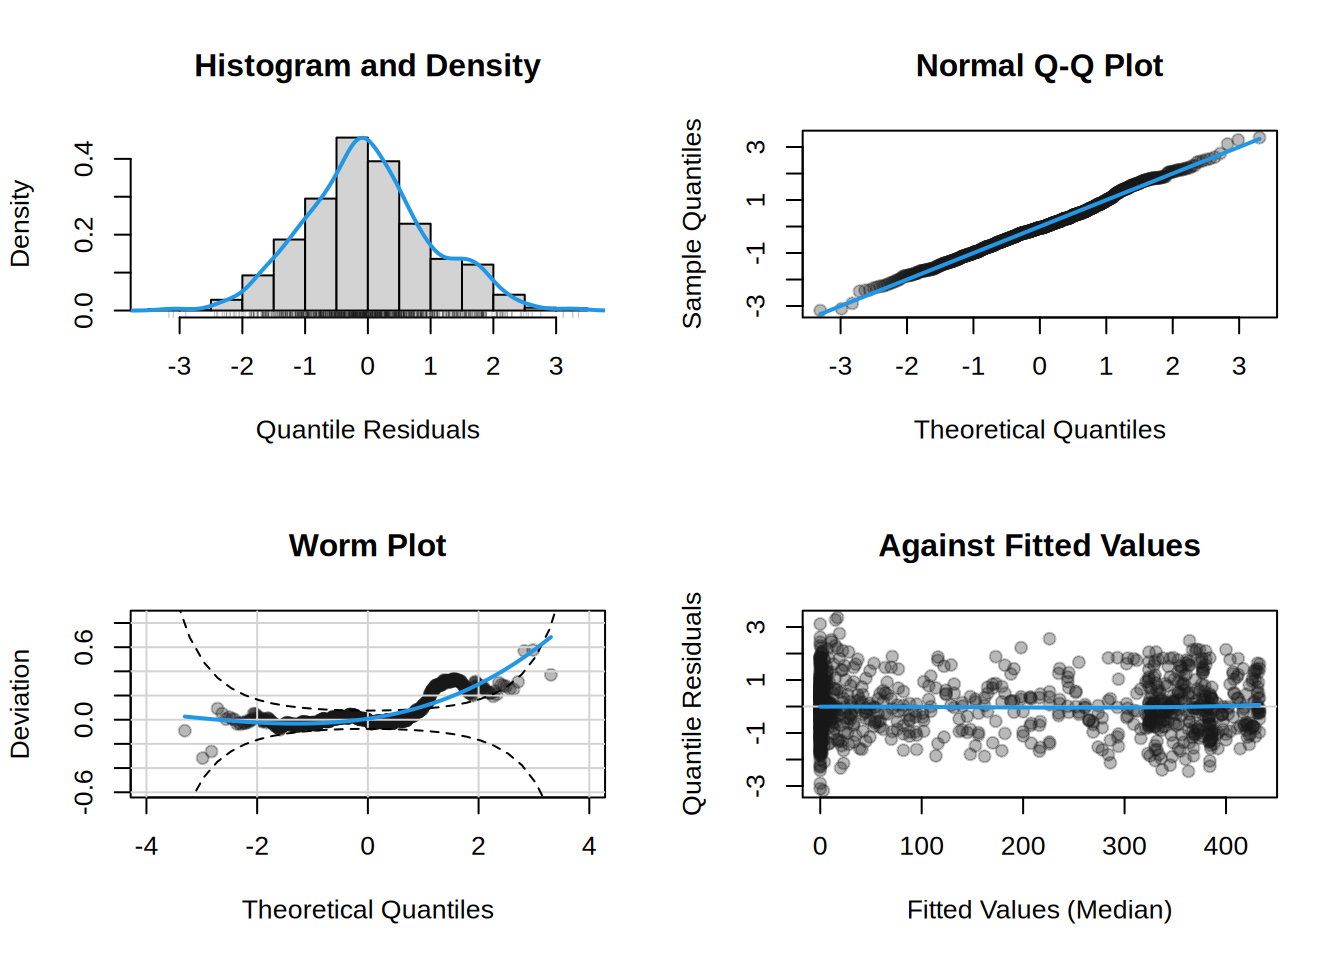
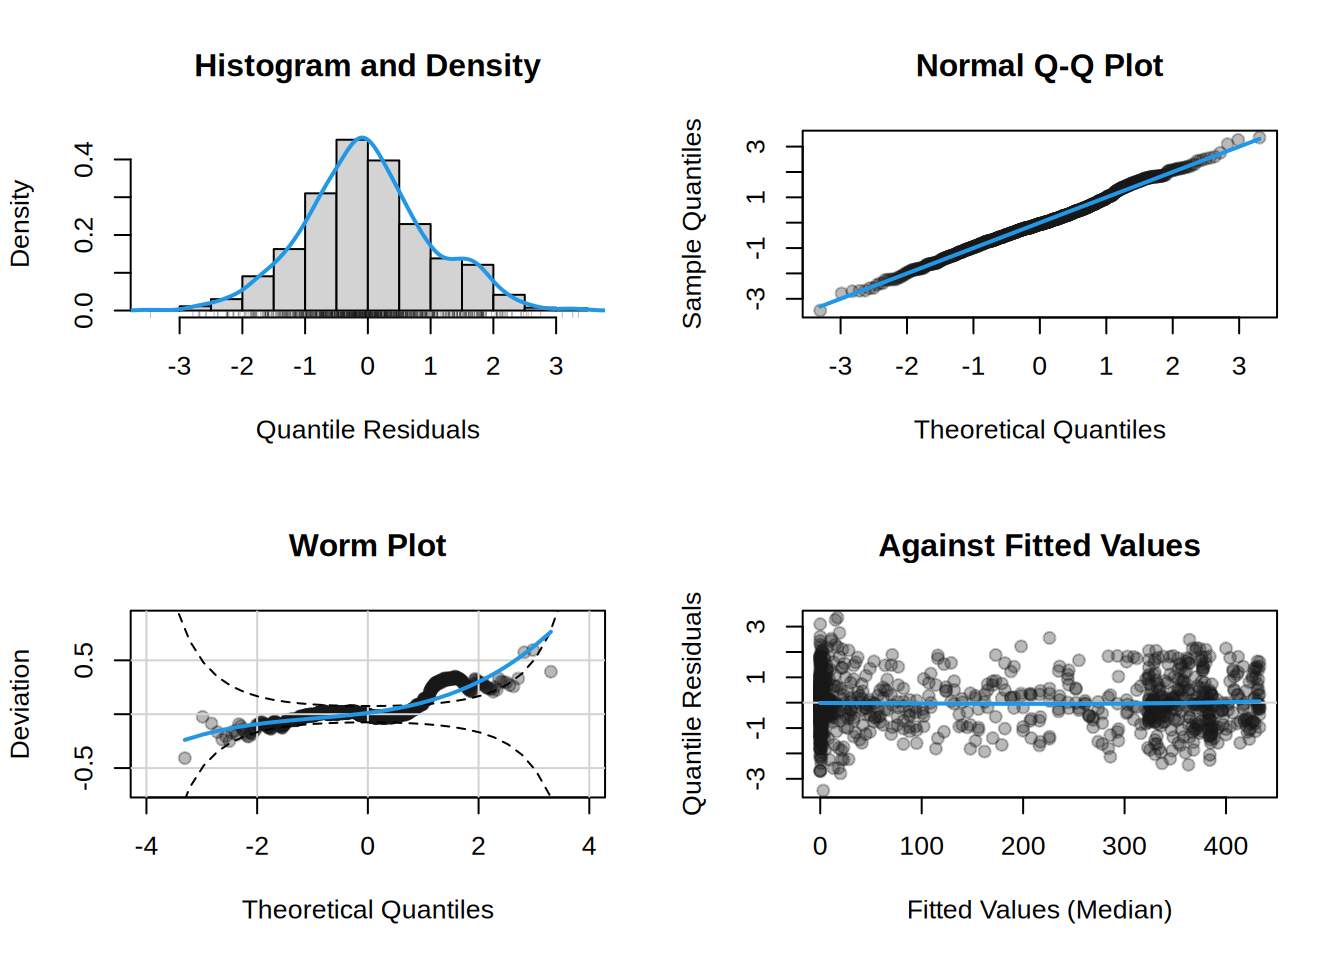
Deploying to gh-pages from @ gamlss-dev/gamlss2@c25680d0386dfb060930328f96b3dcdfa9459b5f 🚀

diff --git a/man/la.html b/man/la.html
@@ -672,110 +672,108 @@ For function <code>la()</code> further control arguments can be passed: The <cod
 <div class="cell">
 <div class="code-copy-outer-scaffold"><div class="sourceCode cell-code" id="cb1"><pre class="sourceCode r code-with-copy"><code class="sourceCode r"><span id="cb1-1"><a href="#cb1-1" aria-hidden="true" tabindex="-1"></a><span class="fu">library</span>(<span class="st">"gamlss2"</span>)</span>
 <span id="cb1-2"><a href="#cb1-2" aria-hidden="true" tabindex="-1"></a></span>
-<span id="cb1-3"><a href="#cb1-3" aria-hidden="true" tabindex="-1"></a></span>
-<span id="cb1-4"><a href="#cb1-4" aria-hidden="true" tabindex="-1"></a><span class="fu">data</span>(<span class="st">"rent"</span>, <span class="at">package =</span> <span class="st">"gamlss.data"</span>)</span>
-<span id="cb1-5"><a href="#cb1-5" aria-hidden="true" tabindex="-1"></a></span>
-<span id="cb1-6"><a href="#cb1-6" aria-hidden="true" tabindex="-1"></a><span class="do">## transform numeric to factor variables</span></span>
-<span id="cb1-7"><a href="#cb1-7" aria-hidden="true" tabindex="-1"></a>rent<span class="sc">$</span>Flc <span class="ot">&lt;-</span> <span class="fu">cut</span>(rent<span class="sc">$</span>Fl, <span class="at">breaks =</span> <span class="fu">seq</span>(<span class="dv">20</span>, <span class="dv">160</span>, <span class="at">by =</span> <span class="dv">10</span>),</span>
+<span id="cb1-3"><a href="#cb1-3" aria-hidden="true" tabindex="-1"></a>air <span class="ot">&lt;-</span> <span class="fu">subset</span>(airquality, <span class="sc">!</span><span class="fu">is.na</span>(Ozone))</span>
+<span id="cb1-4"><a href="#cb1-4" aria-hidden="true" tabindex="-1"></a></span>
+<span id="cb1-5"><a href="#cb1-5" aria-hidden="true" tabindex="-1"></a>air<span class="sc">$</span>Tc <span class="ot">&lt;-</span> <span class="fu">cut</span>(air<span class="sc">$</span>Temp, <span class="at">breaks =</span> <span class="fu">seq</span>(<span class="dv">50</span>, <span class="dv">100</span>, <span class="at">by =</span> <span class="dv">10</span>),</span>
+<span id="cb1-6"><a href="#cb1-6" aria-hidden="true" tabindex="-1"></a>  <span class="at">include.lowest =</span> <span class="cn">TRUE</span>)</span>
+<span id="cb1-7"><a href="#cb1-7" aria-hidden="true" tabindex="-1"></a>air<span class="sc">$</span>Wc <span class="ot">&lt;-</span> <span class="fu">cut</span>(air<span class="sc">$</span>Wind, <span class="at">breaks =</span> <span class="fu">seq</span>(<span class="dv">2</span>, <span class="dv">22</span>, <span class="at">by =</span> <span class="dv">4</span>),</span>
 <span id="cb1-8"><a href="#cb1-8" aria-hidden="true" tabindex="-1"></a>  <span class="at">include.lowest =</span> <span class="cn">TRUE</span>)</span>
-<span id="cb1-9"><a href="#cb1-9" aria-hidden="true" tabindex="-1"></a>rent<span class="sc">$</span>Ac <span class="ot">&lt;-</span> <span class="fu">cut</span>(rent<span class="sc">$</span>A, <span class="at">breaks =</span> <span class="fu">seq</span>(<span class="dv">1890</span>, <span class="dv">1990</span>, <span class="at">by =</span> <span class="dv">10</span>),</span>
-<span id="cb1-10"><a href="#cb1-10" aria-hidden="true" tabindex="-1"></a>  <span class="at">include.lowest =</span> <span class="cn">TRUE</span>)</span>
-<span id="cb1-11"><a href="#cb1-11" aria-hidden="true" tabindex="-1"></a></span>
-<span id="cb1-12"><a href="#cb1-12" aria-hidden="true" tabindex="-1"></a><span class="do">## set up the model formula for a BCT model</span></span>
-<span id="cb1-13"><a href="#cb1-13" aria-hidden="true" tabindex="-1"></a>f <span class="ot">&lt;-</span> R <span class="sc">~</span> <span class="fu">la</span>(Flc,<span class="at">type=</span><span class="dv">3</span>) <span class="sc">+</span> <span class="fu">la</span>(Ac,<span class="at">type=</span><span class="dv">3</span>) <span class="sc">+</span> <span class="fu">la</span>(loc,<span class="at">type=</span><span class="dv">4</span>) <span class="sc">|</span> . <span class="sc">|</span> .</span>
-<span id="cb1-14"><a href="#cb1-14" aria-hidden="true" tabindex="-1"></a></span>
-<span id="cb1-15"><a href="#cb1-15" aria-hidden="true" tabindex="-1"></a><span class="do">## estimation</span></span>
-<span id="cb1-16"><a href="#cb1-16" aria-hidden="true" tabindex="-1"></a>m1 <span class="ot">&lt;-</span> <span class="fu">gamlss2</span>(f, <span class="at">data =</span> rent, <span class="at">family =</span> BCT)</span>
-<span id="cb1-17"><a href="#cb1-17" aria-hidden="true" tabindex="-1"></a></span>
-<span id="cb1-18"><a href="#cb1-18" aria-hidden="true" tabindex="-1"></a><span class="do">## summary, shows the estimated degrees of freedom</span></span>
-<span id="cb1-19"><a href="#cb1-19" aria-hidden="true" tabindex="-1"></a><span class="do">## for each model term</span></span>
-<span id="cb1-20"><a href="#cb1-20" aria-hidden="true" tabindex="-1"></a><span class="fu">summary</span>(m1)</span>
-<span id="cb1-21"><a href="#cb1-21" aria-hidden="true" tabindex="-1"></a></span>
-<span id="cb1-22"><a href="#cb1-22" aria-hidden="true" tabindex="-1"></a><span class="do">## plot estimated coefficients</span></span>
-<span id="cb1-23"><a href="#cb1-23" aria-hidden="true" tabindex="-1"></a><span class="fu">plot</span>(m1)</span>
-<span id="cb1-24"><a href="#cb1-24" aria-hidden="true" tabindex="-1"></a></span>
-<span id="cb1-25"><a href="#cb1-25" aria-hidden="true" tabindex="-1"></a><span class="do">## plot information criteria curves</span></span>
-<span id="cb1-26"><a href="#cb1-26" aria-hidden="true" tabindex="-1"></a><span class="do">## for each model term</span></span>
-<span id="cb1-27"><a href="#cb1-27" aria-hidden="true" tabindex="-1"></a><span class="fu">plot_lasso</span>(m1)</span>
-<span id="cb1-28"><a href="#cb1-28" aria-hidden="true" tabindex="-1"></a></span>
-<span id="cb1-29"><a href="#cb1-29" aria-hidden="true" tabindex="-1"></a><span class="do">## plot parameter paths</span></span>
-<span id="cb1-30"><a href="#cb1-30" aria-hidden="true" tabindex="-1"></a><span class="fu">plot_lasso</span>(m1, <span class="at">which =</span> <span class="st">"coefficients"</span>)</span>
-<span id="cb1-31"><a href="#cb1-31" aria-hidden="true" tabindex="-1"></a></span>
-<span id="cb1-32"><a href="#cb1-32" aria-hidden="true" tabindex="-1"></a><span class="do">## plot a single model term</span></span>
-<span id="cb1-33"><a href="#cb1-33" aria-hidden="true" tabindex="-1"></a><span class="fu">plot_lasso</span>(m1, <span class="at">which =</span> <span class="st">"coefficients"</span>, <span class="at">term =</span> <span class="dv">5</span>)</span>
-<span id="cb1-34"><a href="#cb1-34" aria-hidden="true" tabindex="-1"></a></span>
-<span id="cb1-35"><a href="#cb1-35" aria-hidden="true" tabindex="-1"></a><span class="do">## same with</span></span>
-<span id="cb1-36"><a href="#cb1-36" aria-hidden="true" tabindex="-1"></a><span class="fu">plot_lasso</span>(m1, <span class="at">which =</span> <span class="st">"coefficients"</span>, <span class="at">term =</span> <span class="st">"sigma.la(Ac"</span>)</span>
-<span id="cb1-37"><a href="#cb1-37" aria-hidden="true" tabindex="-1"></a></span>
-<span id="cb1-38"><a href="#cb1-38" aria-hidden="true" tabindex="-1"></a><span class="do">## zoom out</span></span>
-<span id="cb1-39"><a href="#cb1-39" aria-hidden="true" tabindex="-1"></a><span class="fu">plot_lasso</span>(m1, <span class="at">which =</span> <span class="st">"coefficients"</span>, <span class="at">term =</span> <span class="dv">5</span>,</span>
-<span id="cb1-40"><a href="#cb1-40" aria-hidden="true" tabindex="-1"></a>  <span class="at">zoom =</span> <span class="fu">c</span>(<span class="dv">8</span>, <span class="dv">7</span>))</span>
-<span id="cb1-41"><a href="#cb1-41" aria-hidden="true" tabindex="-1"></a></span>
-<span id="cb1-42"><a href="#cb1-42" aria-hidden="true" tabindex="-1"></a><span class="do">## set names</span></span>
-<span id="cb1-43"><a href="#cb1-43" aria-hidden="true" tabindex="-1"></a><span class="fu">plot_lasso</span>(m1, <span class="at">which =</span> <span class="st">"coefficients"</span>, <span class="at">term =</span> <span class="dv">5</span>,</span>
-<span id="cb1-44"><a href="#cb1-44" aria-hidden="true" tabindex="-1"></a>  <span class="at">zoom =</span> <span class="fu">c</span>(<span class="dv">8</span>, <span class="dv">7</span>), <span class="at">names =</span> <span class="fu">c</span>(<span class="st">"A"</span>, <span class="st">"B"</span>, <span class="st">"C"</span>))</span>
-<span id="cb1-45"><a href="#cb1-45" aria-hidden="true" tabindex="-1"></a></span>
-<span id="cb1-46"><a href="#cb1-46" aria-hidden="true" tabindex="-1"></a><span class="do">## set title</span></span>
-<span id="cb1-47"><a href="#cb1-47" aria-hidden="true" tabindex="-1"></a><span class="fu">plot_lasso</span>(m1, <span class="at">which =</span> <span class="st">"coefficients"</span>, <span class="at">term =</span> <span class="dv">5</span>,</span>
-<span id="cb1-48"><a href="#cb1-48" aria-hidden="true" tabindex="-1"></a>  <span class="at">zoom =</span> <span class="fu">c</span>(<span class="dv">8</span>, <span class="dv">7</span>), <span class="at">main =</span> <span class="st">"Fused Lasso"</span>)</span>
-<span id="cb1-49"><a href="#cb1-49" aria-hidden="true" tabindex="-1"></a></span>
-<span id="cb1-50"><a href="#cb1-50" aria-hidden="true" tabindex="-1"></a><span class="do">## simulated example using the nominal fused lasso</span></span>
-<span id="cb1-51"><a href="#cb1-51" aria-hidden="true" tabindex="-1"></a><span class="do">## and a matrix as argument for la()</span></span>
-<span id="cb1-52"><a href="#cb1-52" aria-hidden="true" tabindex="-1"></a><span class="fu">set.seed</span>(<span class="dv">1328</span>)</span>
-<span id="cb1-53"><a href="#cb1-53" aria-hidden="true" tabindex="-1"></a></span>
-<span id="cb1-54"><a href="#cb1-54" aria-hidden="true" tabindex="-1"></a><span class="do">## number of observations and covariates</span></span>
-<span id="cb1-55"><a href="#cb1-55" aria-hidden="true" tabindex="-1"></a>n <span class="ot">&lt;-</span> <span class="dv">500</span></span>
-<span id="cb1-56"><a href="#cb1-56" aria-hidden="true" tabindex="-1"></a>k <span class="ot">&lt;-</span> <span class="dv">50</span></span>
-<span id="cb1-57"><a href="#cb1-57" aria-hidden="true" tabindex="-1"></a></span>
-<span id="cb1-58"><a href="#cb1-58" aria-hidden="true" tabindex="-1"></a><span class="do">## model matrix</span></span>
-<span id="cb1-59"><a href="#cb1-59" aria-hidden="true" tabindex="-1"></a>X <span class="ot">&lt;-</span> <span class="fu">matrix</span>(<span class="fu">rnorm</span>(n <span class="sc">*</span> k), n, k)</span>
-<span id="cb1-60"><a href="#cb1-60" aria-hidden="true" tabindex="-1"></a><span class="fu">colnames</span>(X) <span class="ot">&lt;-</span> <span class="fu">paste0</span>(<span class="st">"x"</span>, <span class="dv">1</span><span class="sc">:</span>k)</span>
-<span id="cb1-61"><a href="#cb1-61" aria-hidden="true" tabindex="-1"></a></span>
-<span id="cb1-62"><a href="#cb1-62" aria-hidden="true" tabindex="-1"></a><span class="do">## true coefficients</span></span>
-<span id="cb1-63"><a href="#cb1-63" aria-hidden="true" tabindex="-1"></a>beta <span class="ot">&lt;-</span> <span class="fu">list</span>(</span>
-<span id="cb1-64"><a href="#cb1-64" aria-hidden="true" tabindex="-1"></a>  <span class="st">"mu"</span> <span class="ot">=</span> <span class="fu">rbinom</span>(k, <span class="dv">1</span>, <span class="fl">0.1</span>),</span>
-<span id="cb1-65"><a href="#cb1-65" aria-hidden="true" tabindex="-1"></a>  <span class="st">"sigma"</span> <span class="ot">=</span> <span class="fu">rbinom</span>(k, <span class="dv">1</span>, <span class="fl">0.1</span>) <span class="sc">*</span> <span class="fl">0.3</span></span>
-<span id="cb1-66"><a href="#cb1-66" aria-hidden="true" tabindex="-1"></a>)</span>
-<span id="cb1-67"><a href="#cb1-67" aria-hidden="true" tabindex="-1"></a></span>
-<span id="cb1-68"><a href="#cb1-68" aria-hidden="true" tabindex="-1"></a><span class="do">## parameters</span></span>
-<span id="cb1-69"><a href="#cb1-69" aria-hidden="true" tabindex="-1"></a>mu <span class="ot">&lt;-</span> X <span class="sc">%*%</span> beta<span class="sc">$</span>mu</span>
-<span id="cb1-70"><a href="#cb1-70" aria-hidden="true" tabindex="-1"></a>sigma <span class="ot">&lt;-</span> <span class="fu">exp</span>(<span class="sc">-</span><span class="dv">1</span> <span class="sc">+</span> X <span class="sc">%*%</span> beta<span class="sc">$</span>sigma)</span>
-<span id="cb1-71"><a href="#cb1-71" aria-hidden="true" tabindex="-1"></a></span>
-<span id="cb1-72"><a href="#cb1-72" aria-hidden="true" tabindex="-1"></a><span class="do">## response</span></span>
-<span id="cb1-73"><a href="#cb1-73" aria-hidden="true" tabindex="-1"></a>y <span class="ot">&lt;-</span> <span class="fu">rnorm</span>(n, <span class="at">mean =</span> mu, <span class="at">sd =</span> sigma)</span>
-<span id="cb1-74"><a href="#cb1-74" aria-hidden="true" tabindex="-1"></a></span>
-<span id="cb1-75"><a href="#cb1-75" aria-hidden="true" tabindex="-1"></a><span class="do">## model formula with nominal fused lasso</span></span>
-<span id="cb1-76"><a href="#cb1-76" aria-hidden="true" tabindex="-1"></a>f <span class="ot">&lt;-</span> y <span class="sc">~</span> <span class="fu">la</span>(X,<span class="at">type=</span><span class="dv">4</span>) <span class="sc">|</span> <span class="fu">la</span>(X,<span class="at">type=</span><span class="dv">4</span>)</span>
-<span id="cb1-77"><a href="#cb1-77" aria-hidden="true" tabindex="-1"></a></span>
-<span id="cb1-78"><a href="#cb1-78" aria-hidden="true" tabindex="-1"></a><span class="do">## estimate model incl. extra ridge penalty</span></span>
-<span id="cb1-79"><a href="#cb1-79" aria-hidden="true" tabindex="-1"></a><span class="do">## for all la() model terms</span></span>
-<span id="cb1-80"><a href="#cb1-80" aria-hidden="true" tabindex="-1"></a>m2 <span class="ot">&lt;-</span> <span class="fu">gamlss2</span>(f, <span class="at">add_ridge =</span> <span class="cn">TRUE</span>)</span>
-<span id="cb1-81"><a href="#cb1-81" aria-hidden="true" tabindex="-1"></a></span>
-<span id="cb1-82"><a href="#cb1-82" aria-hidden="true" tabindex="-1"></a><span class="do">## plot information criteria curves</span></span>
-<span id="cb1-83"><a href="#cb1-83" aria-hidden="true" tabindex="-1"></a><span class="fu">plot_lasso</span>(m2)</span>
-<span id="cb1-84"><a href="#cb1-84" aria-hidden="true" tabindex="-1"></a></span>
-<span id="cb1-85"><a href="#cb1-85" aria-hidden="true" tabindex="-1"></a><span class="do">## coefficient paths</span></span>
-<span id="cb1-86"><a href="#cb1-86" aria-hidden="true" tabindex="-1"></a><span class="fu">plot_lasso</span>(m2, <span class="at">which =</span> <span class="st">"coefficients"</span>)</span>
-<span id="cb1-87"><a href="#cb1-87" aria-hidden="true" tabindex="-1"></a></span>
-<span id="cb1-88"><a href="#cb1-88" aria-hidden="true" tabindex="-1"></a><span class="do">## zoom out</span></span>
-<span id="cb1-89"><a href="#cb1-89" aria-hidden="true" tabindex="-1"></a><span class="fu">plot_lasso</span>(m2, <span class="at">which =</span> <span class="st">"coefficients"</span>,</span>
-<span id="cb1-90"><a href="#cb1-90" aria-hidden="true" tabindex="-1"></a>  <span class="at">zoom =</span> <span class="fu">c</span>(<span class="dv">8</span>, <span class="dv">9</span>))</span>
-<span id="cb1-91"><a href="#cb1-91" aria-hidden="true" tabindex="-1"></a></span>
-<span id="cb1-92"><a href="#cb1-92" aria-hidden="true" tabindex="-1"></a><span class="do">## extract coefficients</span></span>
-<span id="cb1-93"><a href="#cb1-93" aria-hidden="true" tabindex="-1"></a>cb <span class="ot">&lt;-</span> <span class="fu">coef</span>(m2, <span class="at">full =</span> <span class="cn">TRUE</span>)</span>
-<span id="cb1-94"><a href="#cb1-94" aria-hidden="true" tabindex="-1"></a></span>
-<span id="cb1-95"><a href="#cb1-95" aria-hidden="true" tabindex="-1"></a><span class="do">## compare (without intercept)</span></span>
-<span id="cb1-96"><a href="#cb1-96" aria-hidden="true" tabindex="-1"></a>cb_mu <span class="ot">&lt;-</span> cb[<span class="fu">grep</span>(<span class="st">"mu."</span>, <span class="fu">names</span>(cb))][<span class="sc">-</span><span class="dv">1</span>]</span>
-<span id="cb1-97"><a href="#cb1-97" aria-hidden="true" tabindex="-1"></a>cb_sigma <span class="ot">&lt;-</span> cb[<span class="fu">grep</span>(<span class="st">"sigma."</span>, <span class="fu">names</span>(cb))][<span class="sc">-</span><span class="dv">1</span>]</span>
-<span id="cb1-98"><a href="#cb1-98" aria-hidden="true" tabindex="-1"></a></span>
-<span id="cb1-99"><a href="#cb1-99" aria-hidden="true" tabindex="-1"></a><span class="do">## true positive rate</span></span>
-<span id="cb1-100"><a href="#cb1-100" aria-hidden="true" tabindex="-1"></a>tp <span class="ot">&lt;-</span> <span class="fu">mean</span>(<span class="fu">c</span>(cb_mu[beta<span class="sc">$</span>mu <span class="sc">&gt;</span> <span class="dv">0</span>] <span class="sc">&gt;</span> <span class="dv">0</span>,</span>
-<span id="cb1-101"><a href="#cb1-101" aria-hidden="true" tabindex="-1"></a>  cb_sigma[beta<span class="sc">$</span>sigma <span class="sc">&gt;</span> <span class="dv">0</span>] <span class="sc">&gt;</span> <span class="dv">0</span>))</span>
-<span id="cb1-102"><a href="#cb1-102" aria-hidden="true" tabindex="-1"></a></span>
-<span id="cb1-103"><a href="#cb1-103" aria-hidden="true" tabindex="-1"></a><span class="do">## false positive rate, needs threshold</span></span>
-<span id="cb1-104"><a href="#cb1-104" aria-hidden="true" tabindex="-1"></a>thres <span class="ot">&lt;-</span> <span class="fl">0.01</span></span>
-<span id="cb1-105"><a href="#cb1-105" aria-hidden="true" tabindex="-1"></a>fp <span class="ot">&lt;-</span> <span class="fu">mean</span>(<span class="fu">c</span>(<span class="fu">abs</span>(cb_mu[beta<span class="sc">$</span>mu <span class="sc">==</span> <span class="dv">0</span>]) <span class="sc">&gt;</span> thres,</span>
-<span id="cb1-106"><a href="#cb1-106" aria-hidden="true" tabindex="-1"></a>  <span class="fu">abs</span>(cb_sigma[beta<span class="sc">$</span>sigma <span class="sc">==</span> <span class="dv">0</span>]) <span class="sc">&gt;</span> thres))</span></code></pre></div><button title="Copy to Clipboard" class="code-copy-button"><i class="bi"></i></button></div>
+<span id="cb1-9"><a href="#cb1-9" aria-hidden="true" tabindex="-1"></a></span>
+<span id="cb1-10"><a href="#cb1-10" aria-hidden="true" tabindex="-1"></a><span class="do">## set up the model formula for a BCT model</span></span>
+<span id="cb1-11"><a href="#cb1-11" aria-hidden="true" tabindex="-1"></a>f <span class="ot">&lt;-</span> Ozone <span class="sc">~</span> <span class="fu">la</span>(Tc,<span class="at">type=</span><span class="dv">3</span>) <span class="sc">+</span> <span class="fu">la</span>(Wc,<span class="at">type=</span><span class="dv">3</span>) <span class="sc">|</span> . <span class="sc">|</span> . <span class="sc">|</span> .</span>
+<span id="cb1-12"><a href="#cb1-12" aria-hidden="true" tabindex="-1"></a></span>
+<span id="cb1-13"><a href="#cb1-13" aria-hidden="true" tabindex="-1"></a><span class="do">## estimation</span></span>
+<span id="cb1-14"><a href="#cb1-14" aria-hidden="true" tabindex="-1"></a>m1 <span class="ot">&lt;-</span> <span class="fu">gamlss2</span>(f, <span class="at">data =</span> air, <span class="at">family =</span> BCT)</span>
+<span id="cb1-15"><a href="#cb1-15" aria-hidden="true" tabindex="-1"></a></span>
+<span id="cb1-16"><a href="#cb1-16" aria-hidden="true" tabindex="-1"></a><span class="do">## summary, shows the estimated degrees of freedom</span></span>
+<span id="cb1-17"><a href="#cb1-17" aria-hidden="true" tabindex="-1"></a><span class="do">## for each model term</span></span>
+<span id="cb1-18"><a href="#cb1-18" aria-hidden="true" tabindex="-1"></a><span class="fu">summary</span>(m1)</span>
+<span id="cb1-19"><a href="#cb1-19" aria-hidden="true" tabindex="-1"></a></span>
+<span id="cb1-20"><a href="#cb1-20" aria-hidden="true" tabindex="-1"></a><span class="do">## plot estimated coefficients</span></span>
+<span id="cb1-21"><a href="#cb1-21" aria-hidden="true" tabindex="-1"></a><span class="fu">plot</span>(m1)</span>
+<span id="cb1-22"><a href="#cb1-22" aria-hidden="true" tabindex="-1"></a></span>
+<span id="cb1-23"><a href="#cb1-23" aria-hidden="true" tabindex="-1"></a><span class="do">## plot information criteria curves</span></span>
+<span id="cb1-24"><a href="#cb1-24" aria-hidden="true" tabindex="-1"></a><span class="do">## for each model term</span></span>
+<span id="cb1-25"><a href="#cb1-25" aria-hidden="true" tabindex="-1"></a><span class="fu">plot_lasso</span>(m1)</span>
+<span id="cb1-26"><a href="#cb1-26" aria-hidden="true" tabindex="-1"></a></span>
+<span id="cb1-27"><a href="#cb1-27" aria-hidden="true" tabindex="-1"></a><span class="do">## plot parameter paths</span></span>
+<span id="cb1-28"><a href="#cb1-28" aria-hidden="true" tabindex="-1"></a><span class="fu">plot_lasso</span>(m1, <span class="at">which =</span> <span class="st">"coefficients"</span>)</span>
+<span id="cb1-29"><a href="#cb1-29" aria-hidden="true" tabindex="-1"></a></span>
+<span id="cb1-30"><a href="#cb1-30" aria-hidden="true" tabindex="-1"></a><span class="do">## plot a single model term</span></span>
+<span id="cb1-31"><a href="#cb1-31" aria-hidden="true" tabindex="-1"></a><span class="fu">plot_lasso</span>(m1, <span class="at">which =</span> <span class="st">"coefficients"</span>, <span class="at">term =</span> <span class="dv">2</span>)</span>
+<span id="cb1-32"><a href="#cb1-32" aria-hidden="true" tabindex="-1"></a></span>
+<span id="cb1-33"><a href="#cb1-33" aria-hidden="true" tabindex="-1"></a><span class="do">## same with</span></span>
+<span id="cb1-34"><a href="#cb1-34" aria-hidden="true" tabindex="-1"></a><span class="fu">plot_lasso</span>(m1, <span class="at">which =</span> <span class="st">"coefficients"</span>, <span class="at">term =</span> <span class="st">"mu.la(Wc"</span>)</span>
+<span id="cb1-35"><a href="#cb1-35" aria-hidden="true" tabindex="-1"></a></span>
+<span id="cb1-36"><a href="#cb1-36" aria-hidden="true" tabindex="-1"></a><span class="do">## zoom out</span></span>
+<span id="cb1-37"><a href="#cb1-37" aria-hidden="true" tabindex="-1"></a><span class="fu">plot_lasso</span>(m1, <span class="at">which =</span> <span class="st">"coefficients"</span>, <span class="at">term =</span> <span class="dv">2</span>,</span>
+<span id="cb1-38"><a href="#cb1-38" aria-hidden="true" tabindex="-1"></a>  <span class="at">zoom =</span> <span class="fu">c</span>(<span class="dv">8</span>, <span class="dv">7</span>))</span>
+<span id="cb1-39"><a href="#cb1-39" aria-hidden="true" tabindex="-1"></a></span>
+<span id="cb1-40"><a href="#cb1-40" aria-hidden="true" tabindex="-1"></a><span class="do">## set names</span></span>
+<span id="cb1-41"><a href="#cb1-41" aria-hidden="true" tabindex="-1"></a><span class="fu">plot_lasso</span>(m1, <span class="at">which =</span> <span class="st">"coefficients"</span>, <span class="at">term =</span> <span class="dv">2</span>,</span>
+<span id="cb1-42"><a href="#cb1-42" aria-hidden="true" tabindex="-1"></a>  <span class="at">zoom =</span> <span class="fu">c</span>(<span class="dv">8</span>, <span class="dv">7</span>), <span class="at">names =</span> <span class="fu">c</span>(<span class="st">"A"</span>, <span class="st">"B"</span>, <span class="st">"C"</span>, <span class="st">"D"</span>))</span>
+<span id="cb1-43"><a href="#cb1-43" aria-hidden="true" tabindex="-1"></a></span>
+<span id="cb1-44"><a href="#cb1-44" aria-hidden="true" tabindex="-1"></a><span class="do">## set title</span></span>
+<span id="cb1-45"><a href="#cb1-45" aria-hidden="true" tabindex="-1"></a><span class="fu">plot_lasso</span>(m1, <span class="at">which =</span> <span class="st">"coefficients"</span>, <span class="at">term =</span> <span class="dv">2</span>,</span>
+<span id="cb1-46"><a href="#cb1-46" aria-hidden="true" tabindex="-1"></a>  <span class="at">zoom =</span> <span class="fu">c</span>(<span class="dv">8</span>, <span class="dv">7</span>), <span class="at">main =</span> <span class="st">"Fused Lasso"</span>)</span>
+<span id="cb1-47"><a href="#cb1-47" aria-hidden="true" tabindex="-1"></a></span>
+<span id="cb1-48"><a href="#cb1-48" aria-hidden="true" tabindex="-1"></a><span class="do">## simulated example using the nominal fused lasso</span></span>
+<span id="cb1-49"><a href="#cb1-49" aria-hidden="true" tabindex="-1"></a><span class="do">## and a matrix as argument for la()</span></span>
+<span id="cb1-50"><a href="#cb1-50" aria-hidden="true" tabindex="-1"></a><span class="fu">set.seed</span>(<span class="dv">1328</span>)</span>
+<span id="cb1-51"><a href="#cb1-51" aria-hidden="true" tabindex="-1"></a></span>
+<span id="cb1-52"><a href="#cb1-52" aria-hidden="true" tabindex="-1"></a><span class="do">## number of observations and covariates</span></span>
+<span id="cb1-53"><a href="#cb1-53" aria-hidden="true" tabindex="-1"></a>n <span class="ot">&lt;-</span> <span class="dv">500</span></span>
+<span id="cb1-54"><a href="#cb1-54" aria-hidden="true" tabindex="-1"></a>k <span class="ot">&lt;-</span> <span class="dv">50</span></span>
+<span id="cb1-55"><a href="#cb1-55" aria-hidden="true" tabindex="-1"></a></span>
+<span id="cb1-56"><a href="#cb1-56" aria-hidden="true" tabindex="-1"></a><span class="do">## model matrix</span></span>
+<span id="cb1-57"><a href="#cb1-57" aria-hidden="true" tabindex="-1"></a>X <span class="ot">&lt;-</span> <span class="fu">matrix</span>(<span class="fu">rnorm</span>(n <span class="sc">*</span> k), n, k)</span>
+<span id="cb1-58"><a href="#cb1-58" aria-hidden="true" tabindex="-1"></a><span class="fu">colnames</span>(X) <span class="ot">&lt;-</span> <span class="fu">paste0</span>(<span class="st">"x"</span>, <span class="dv">1</span><span class="sc">:</span>k)</span>
+<span id="cb1-59"><a href="#cb1-59" aria-hidden="true" tabindex="-1"></a></span>
+<span id="cb1-60"><a href="#cb1-60" aria-hidden="true" tabindex="-1"></a><span class="do">## true coefficients</span></span>
+<span id="cb1-61"><a href="#cb1-61" aria-hidden="true" tabindex="-1"></a>beta <span class="ot">&lt;-</span> <span class="fu">list</span>(</span>
+<span id="cb1-62"><a href="#cb1-62" aria-hidden="true" tabindex="-1"></a>  <span class="st">"mu"</span> <span class="ot">=</span> <span class="fu">rbinom</span>(k, <span class="dv">1</span>, <span class="fl">0.1</span>),</span>
+<span id="cb1-63"><a href="#cb1-63" aria-hidden="true" tabindex="-1"></a>  <span class="st">"sigma"</span> <span class="ot">=</span> <span class="fu">rbinom</span>(k, <span class="dv">1</span>, <span class="fl">0.1</span>) <span class="sc">*</span> <span class="fl">0.3</span></span>
+<span id="cb1-64"><a href="#cb1-64" aria-hidden="true" tabindex="-1"></a>)</span>
+<span id="cb1-65"><a href="#cb1-65" aria-hidden="true" tabindex="-1"></a></span>
+<span id="cb1-66"><a href="#cb1-66" aria-hidden="true" tabindex="-1"></a><span class="do">## parameters</span></span>
+<span id="cb1-67"><a href="#cb1-67" aria-hidden="true" tabindex="-1"></a>mu <span class="ot">&lt;-</span> X <span class="sc">%*%</span> beta<span class="sc">$</span>mu</span>
+<span id="cb1-68"><a href="#cb1-68" aria-hidden="true" tabindex="-1"></a>sigma <span class="ot">&lt;-</span> <span class="fu">exp</span>(<span class="sc">-</span><span class="dv">1</span> <span class="sc">+</span> X <span class="sc">%*%</span> beta<span class="sc">$</span>sigma)</span>
+<span id="cb1-69"><a href="#cb1-69" aria-hidden="true" tabindex="-1"></a></span>
+<span id="cb1-70"><a href="#cb1-70" aria-hidden="true" tabindex="-1"></a><span class="do">## response</span></span>
+<span id="cb1-71"><a href="#cb1-71" aria-hidden="true" tabindex="-1"></a>y <span class="ot">&lt;-</span> <span class="fu">rnorm</span>(n, <span class="at">mean =</span> mu, <span class="at">sd =</span> sigma)</span>
+<span id="cb1-72"><a href="#cb1-72" aria-hidden="true" tabindex="-1"></a></span>
+<span id="cb1-73"><a href="#cb1-73" aria-hidden="true" tabindex="-1"></a><span class="do">## model formula with nominal fused lasso</span></span>
+<span id="cb1-74"><a href="#cb1-74" aria-hidden="true" tabindex="-1"></a>f <span class="ot">&lt;-</span> y <span class="sc">~</span> <span class="fu">la</span>(X,<span class="at">type=</span><span class="dv">4</span>) <span class="sc">|</span> <span class="fu">la</span>(X,<span class="at">type=</span><span class="dv">4</span>)</span>
+<span id="cb1-75"><a href="#cb1-75" aria-hidden="true" tabindex="-1"></a></span>
+<span id="cb1-76"><a href="#cb1-76" aria-hidden="true" tabindex="-1"></a><span class="do">## estimate model incl. extra ridge penalty</span></span>
+<span id="cb1-77"><a href="#cb1-77" aria-hidden="true" tabindex="-1"></a><span class="do">## for all la() model terms</span></span>
+<span id="cb1-78"><a href="#cb1-78" aria-hidden="true" tabindex="-1"></a>m2 <span class="ot">&lt;-</span> <span class="fu">gamlss2</span>(f, <span class="at">add_ridge =</span> <span class="cn">TRUE</span>)</span>
+<span id="cb1-79"><a href="#cb1-79" aria-hidden="true" tabindex="-1"></a></span>
+<span id="cb1-80"><a href="#cb1-80" aria-hidden="true" tabindex="-1"></a><span class="do">## plot information criteria curves</span></span>
+<span id="cb1-81"><a href="#cb1-81" aria-hidden="true" tabindex="-1"></a><span class="fu">plot_lasso</span>(m2)</span>
+<span id="cb1-82"><a href="#cb1-82" aria-hidden="true" tabindex="-1"></a></span>
+<span id="cb1-83"><a href="#cb1-83" aria-hidden="true" tabindex="-1"></a><span class="do">## coefficient paths</span></span>
+<span id="cb1-84"><a href="#cb1-84" aria-hidden="true" tabindex="-1"></a><span class="fu">plot_lasso</span>(m2, <span class="at">which =</span> <span class="st">"coefficients"</span>)</span>
+<span id="cb1-85"><a href="#cb1-85" aria-hidden="true" tabindex="-1"></a></span>
+<span id="cb1-86"><a href="#cb1-86" aria-hidden="true" tabindex="-1"></a><span class="do">## zoom out</span></span>
+<span id="cb1-87"><a href="#cb1-87" aria-hidden="true" tabindex="-1"></a><span class="fu">plot_lasso</span>(m2, <span class="at">which =</span> <span class="st">"coefficients"</span>,</span>
+<span id="cb1-88"><a href="#cb1-88" aria-hidden="true" tabindex="-1"></a>  <span class="at">zoom =</span> <span class="fu">c</span>(<span class="dv">8</span>, <span class="dv">9</span>))</span>
+<span id="cb1-89"><a href="#cb1-89" aria-hidden="true" tabindex="-1"></a></span>
+<span id="cb1-90"><a href="#cb1-90" aria-hidden="true" tabindex="-1"></a><span class="do">## extract coefficients</span></span>
+<span id="cb1-91"><a href="#cb1-91" aria-hidden="true" tabindex="-1"></a>cb <span class="ot">&lt;-</span> <span class="fu">coef</span>(m2, <span class="at">full =</span> <span class="cn">TRUE</span>)</span>
+<span id="cb1-92"><a href="#cb1-92" aria-hidden="true" tabindex="-1"></a></span>
+<span id="cb1-93"><a href="#cb1-93" aria-hidden="true" tabindex="-1"></a><span class="do">## compare (without intercept)</span></span>
+<span id="cb1-94"><a href="#cb1-94" aria-hidden="true" tabindex="-1"></a>cb_mu <span class="ot">&lt;-</span> cb[<span class="fu">grep</span>(<span class="st">"mu."</span>, <span class="fu">names</span>(cb))][<span class="sc">-</span><span class="dv">1</span>]</span>
+<span id="cb1-95"><a href="#cb1-95" aria-hidden="true" tabindex="-1"></a>cb_sigma <span class="ot">&lt;-</span> cb[<span class="fu">grep</span>(<span class="st">"sigma."</span>, <span class="fu">names</span>(cb))][<span class="sc">-</span><span class="dv">1</span>]</span>
+<span id="cb1-96"><a href="#cb1-96" aria-hidden="true" tabindex="-1"></a></span>
+<span id="cb1-97"><a href="#cb1-97" aria-hidden="true" tabindex="-1"></a><span class="do">## true positive rate</span></span>
+<span id="cb1-98"><a href="#cb1-98" aria-hidden="true" tabindex="-1"></a>tp <span class="ot">&lt;-</span> <span class="fu">mean</span>(<span class="fu">c</span>(cb_mu[beta<span class="sc">$</span>mu <span class="sc">&gt;</span> <span class="dv">0</span>] <span class="sc">&gt;</span> <span class="dv">0</span>,</span>
+<span id="cb1-99"><a href="#cb1-99" aria-hidden="true" tabindex="-1"></a>  cb_sigma[beta<span class="sc">$</span>sigma <span class="sc">&gt;</span> <span class="dv">0</span>] <span class="sc">&gt;</span> <span class="dv">0</span>))</span>
+<span id="cb1-100"><a href="#cb1-100" aria-hidden="true" tabindex="-1"></a></span>
+<span id="cb1-101"><a href="#cb1-101" aria-hidden="true" tabindex="-1"></a><span class="do">## false positive rate, needs threshold</span></span>
+<span id="cb1-102"><a href="#cb1-102" aria-hidden="true" tabindex="-1"></a>thres <span class="ot">&lt;-</span> <span class="fl">0.01</span></span>
+<span id="cb1-103"><a href="#cb1-103" aria-hidden="true" tabindex="-1"></a>fp <span class="ot">&lt;-</span> <span class="fu">mean</span>(<span class="fu">c</span>(<span class="fu">abs</span>(cb_mu[beta<span class="sc">$</span>mu <span class="sc">==</span> <span class="dv">0</span>]) <span class="sc">&gt;</span> thres,</span>
+<span id="cb1-104"><a href="#cb1-104" aria-hidden="true" tabindex="-1"></a>  <span class="fu">abs</span>(cb_sigma[beta<span class="sc">$</span>sigma <span class="sc">==</span> <span class="dv">0</span>]) <span class="sc">&gt;</span> thres))</span></code></pre></div><button title="Copy to Clipboard" class="code-copy-button"><i class="bi"></i></button></div>
 </div>
 
 

diff --git a/man/prodist.gamlss2.html b/man/prodist.gamlss2.html
@@ -670,10 +670,10 @@ GAMLSS-RS iteration  2: Global Deviance = 405.7368 eps = 0.000000     </code></p
 <div class="code-copy-outer-scaffold"><div class="sourceCode cell-code" id="cb16"><pre class="sourceCode r code-with-copy"><code class="sourceCode r"><span id="cb16-1"><a href="#cb16-1" aria-hidden="true" tabindex="-1"></a><span class="do">## simulate random numbers</span></span>
 <span id="cb16-2"><a href="#cb16-2" aria-hidden="true" tabindex="-1"></a><span class="fu">random</span>(d, <span class="dv">5</span>)</span></code></pre></div><button title="Copy to Clipboard" class="code-copy-button"><i class="bi"></i></button></div>
 <div class="cell-output cell-output-stdout">
-<pre><code>       r_1      r_2       r_3       r_4      r_5
-1 27.76396 51.10170  32.30473  14.39394 19.73267
-2 28.20750 59.67074  32.00466  57.59129 50.44237
-3 82.21512 88.98598 102.68684 128.47488 40.57989</code></pre>
+<pre><code>        r_1       r_2       r_3       r_4      r_5
+1  49.09667  10.49978  32.92065  25.15725 24.99967
+2  57.64545  58.86968  28.07316  94.28779 61.85946
[phone redacted].60559 133.61632 141.57541 48.66589</code></pre>
 </div>
 <div class="code-copy-outer-scaffold"><div class="sourceCode cell-code" id="cb18"><pre class="sourceCode r code-with-copy"><code class="sourceCode r"><span id="cb18-1"><a href="#cb18-1" aria-hidden="true" tabindex="-1"></a><span class="do">## density and distribution</span></span>
 <span id="cb18-2"><a href="#cb18-2" aria-hidden="true" tabindex="-1"></a><span class="fu">pdf</span>(d, <span class="dv">50</span> <span class="sc">*</span> <span class="sc">-</span><span class="dv">2</span><span class="sc">:</span><span class="dv">2</span>)</span></code></pre></div><button title="Copy to Clipboard" class="code-copy-button"><i class="bi"></i></button></div>

diff --git a/man/gamlss2.html b/man/gamlss2.html
@@ -740,7 +740,7 @@ edf     7.0490     2.6505         1.001
 *--------
 n = 116 df =  12.7 res.df =  103.3
 Deviance = 933.8795 Null Dev. Red. = 13.78%
-AIC = 959.2803 elapsed =  0.15sec</code></pre>
+AIC = 959.2803 elapsed =  0.16sec</code></pre>
 </div>
 <div class="code-copy-outer-scaffold"><div class="sourceCode cell-code" id="cb6"><pre class="sourceCode r code-with-copy"><code class="sourceCode r"><span id="cb6-1"><a href="#cb6-1" aria-hidden="true" tabindex="-1"></a><span class="do">## plot parameter-specific effects</span></span>
 <span id="cb6-2"><a href="#cb6-2" aria-hidden="true" tabindex="-1"></a><span class="fu">plot</span>(m1, <span class="at">which =</span> <span class="st">"effects"</span>)</span></code></pre></div><button title="Copy to Clipboard" class="code-copy-button"><i class="bi"></i></button></div>
@@ -861,7 +861,7 @@ edf     6.3823        6.2095
 *--------
 n = 1057 df =  14.59 res.df =  1042.41
 Deviance = 10150.8818 Null Dev. Red. = 12.62%
-AIC = 10180.0654 elapsed =  0.28sec</code></pre>
+AIC = 10180.0654 elapsed =  0.31sec</code></pre>
 </div>
 <div class="code-copy-outer-scaffold"><div class="sourceCode cell-code" id="cb16"><pre class="sourceCode r code-with-copy"><code class="sourceCode r"><span id="cb16-1"><a href="#cb16-1" aria-hidden="true" tabindex="-1"></a><span class="do">## effect plots</span></span>
 <span id="cb16-2"><a href="#cb16-2" aria-hidden="true" tabindex="-1"></a><span class="fu">plot</span>(m2)</span></code></pre></div><button title="Copy to Clipboard" class="code-copy-button"><i class="bi"></i></button></div>

diff --git a/man/OL.html b/man/OL.html
@@ -663,7 +663,7 @@ Signif. codes:  0 '***' 0.001 '**' 0.01 '*' 0.05 '.' 0.1 ' ' 1
 *--------
 n = 72 df =  9 res.df =  63
 Deviance = 3479.1493 Null Dev. Red. = -2099.21%
-AIC = 3497.1493 elapsed =  0.04sec</code></pre>
+AIC = 3497.1493 elapsed =  0.05sec</code></pre>
 </div>
 <div class="code-copy-outer-scaffold"><div class="sourceCode cell-code" id="cb7"><pre class="sourceCode r code-with-copy"><code class="sourceCode r"><span id="cb7-1"><a href="#cb7-1" aria-hidden="true" tabindex="-1"></a><span class="do">## compare coefficients</span></span>
 <span id="cb7-2"><a href="#cb7-2" aria-hidden="true" tabindex="-1"></a><span class="fu">coef</span>(m1)</span></code></pre></div><button title="Copy to Clipboard" class="code-copy-button"><i class="bi"></i></button></div>